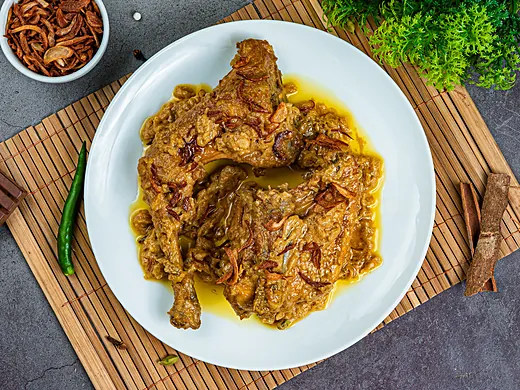
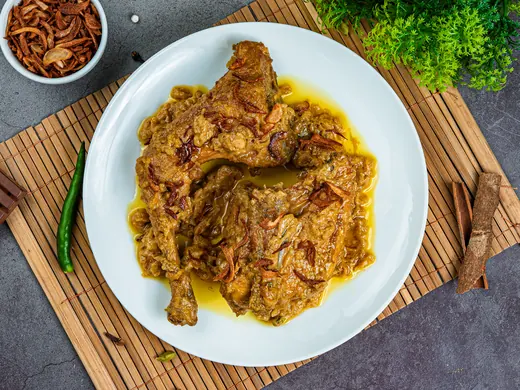
assets: colour-corrected gallery photos and premium card shots
22 gallery photos, one best shot of each unique dish or platter from the
photographer's colour-corrected finals, exported at 720/1200/1600 px
(full 3:2 frame; tiles crop in CSS). The five premium cards switch to the
colour-corrected shots too, each a different frame than its gallery photo.
scripts/export-photos.py re-creates all of them from the originals.

Claude-Session: https://claude.ai/code/session_0121P9TC8tJXtbs1EaLJNoDp

diff --git a/scripts/export-photos.py b/scripts/export-photos.py
@@ -1,0 +1,113 @@
+"""Export the photographer's colour-corrected finals into the website's WebP images.
+
+The originals (152 JPEGs, ~7 MB each) live in the shared Drive folder
+"Food Photography - Final Shots after color correction" and are NOT kept in this repo.
+Download the files named below into one folder, then run (needs Pillow):
+
+    python3 scripts/export-photos.py --src /path/to/originals
+
+Writes
+  src/assets/gallery/<key>-{720,1200,1600}.webp  full 3:2 frame (the gallery crops tiles in CSS)
+  src/assets/food/dish-<dish>-{520,800}.webp      4:3 premium-card crops
+
+To add or swap a gallery photo: change GALLERY below, re-run, then edit src/content/gallery.ts.
+"""
+
+import argparse
+import os
+
+from PIL import Image, ImageOps
+
+# one best shot per unique dish (near-identical repeats left out)
+GALLERY = {
+    "prawn": "DSC02807",
+    "rui": "DSC02794",
+    "roast": "DSC02772",
+    "chicken-curry": "DSC02787",
+    "mutton": "DSC02768",
+    "beef": "DSC02754",
+    "beef-potato": "DSC02899",
+    "egg": "DSC02841",
+    "polao": "DSC02903",
+    "khichuri": "DSC02908",
+    "tehari": "DSC02834",
+    "dal": "DSC02882",
+    "moong-dal": "DSC02891",
+    "bharta": "DSC02851",
+    "lal-shak": "DSC02863",
+    "okra": "DSC02866",
+    "mixed-veg": "DSC02872",
+    "korola": "DSC02878",
+    "polao-platter": "DSC02816",
+    "khichuri-platter": "DSC02812",
+    "bharta-platter": "DSC02823",
+    "fish-platter": "DSC02828",
+}
+# width → byte budget. 720 covers grid tiles on retina screens (a 4:3 tile crops the 3:2 photo, so it
+# needs ~1.13× the tile width); 1200/1600 serve the lightbox on phones / large and retina screens.
+GALLERY_WIDTHS = {720: 120_000, 1200: 280_000, 1600: 440_000}
+
+# premium cards: a different frame of the same dish than the gallery shows; (fx, fy) = crop centre
+CARDS = {
+    "prawn": ("DSC02806", (0.50, 0.50)),
+    "fish": ("DSC02803", (0.50, 0.50)),
+    "roast": ("DSC02775", (0.50, 0.50)),
+    "mutton": ("DSC02762", (0.50, 0.50)),
+    "beef": ("DSC02760", (0.50, 0.50)),
+}
+CARD_SIZES = {800: 600, 520: 390}
+
+
+def load(src, name):
+    im = Image.open(os.path.join(src, f"{name}.JPG"))
+    return ImageOps.exif_transpose(im).convert("RGB")
+
+
+def crop_to(im, ratio, focus=(0.5, 0.5)):
+    """Largest crop of `ratio` (w/h) around `focus`, kept inside the image."""
+    w, h = im.size
+    cw, ch = (w, round(w / ratio)) if w / h <= ratio else (round(h * ratio), h)
+    cw, ch = min(cw, w), min(ch, h)
+    left = min(max(round(focus[0] * w - cw / 2), 0), w - cw)
+    top = min(max(round(focus[1] * h - ch / 2), 0), h - ch)
+    return im.crop((left, top, left + cw, top + ch))
+
+
+def resized(im, size):
+    # plain Lanczos: the finals are already sharp, and extra sharpening only inflates the files
+    return im.resize(size, Image.LANCZOS)
+
+
+def save_webp(im, path, budget=None, quality=78):
+    while True:
+        im.save(path, "WEBP", quality=quality, method=6)
+        if budget is None or os.path.getsize(path) <= budget or quality <= 58:
+            return quality
+        quality -= 4
+
+
+def main():
+    ap = argparse.ArgumentParser(description=__doc__, formatter_class=argparse.RawDescriptionHelpFormatter)
+    ap.add_argument("--src", required=True, help="folder with the DSC0xxxx.JPG originals")
+    ap.add_argument("--root", default=os.path.join(os.path.dirname(__file__), ".."), help="repo root")
+    args = ap.parse_args()
+
+    gdir = os.path.join(args.root, "src/assets/gallery")
+    fdir = os.path.join(args.root, "src/assets/food")
+    os.makedirs(gdir, exist_ok=True)
+
+    for key, name in GALLERY.items():
+        frame = crop_to(load(args.src, name), 3 / 2)
+        for width, budget in GALLERY_WIDTHS.items():
+            q = save_webp(resized(frame, (width, round(width * 2 / 3))), os.path.join(gdir, f"{key}-{width}.webp"), budget)
+            print(f"gallery {key:17} {width:5}w  q{q}")
+
+    for dish, (name, focus) in CARDS.items():
+        frame = crop_to(load(args.src, name), 4 / 3, focus)
+        for width, height in CARD_SIZES.items():
+            save_webp(resized(frame, (width, height)), os.path.join(fdir, f"dish-{dish}-{width}.webp"))
+        print(f"card    {dish:17} from {name}")
+
+
+if __name__ == "__main__":
+    main()
